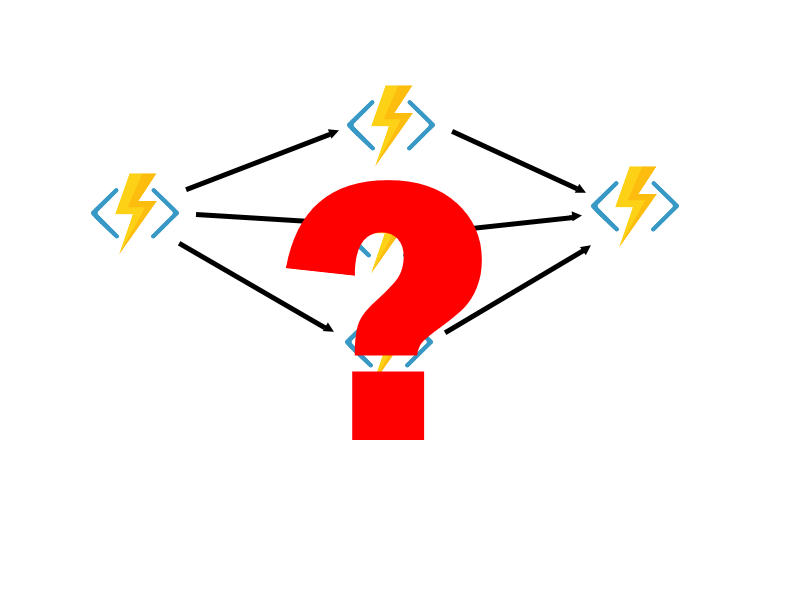
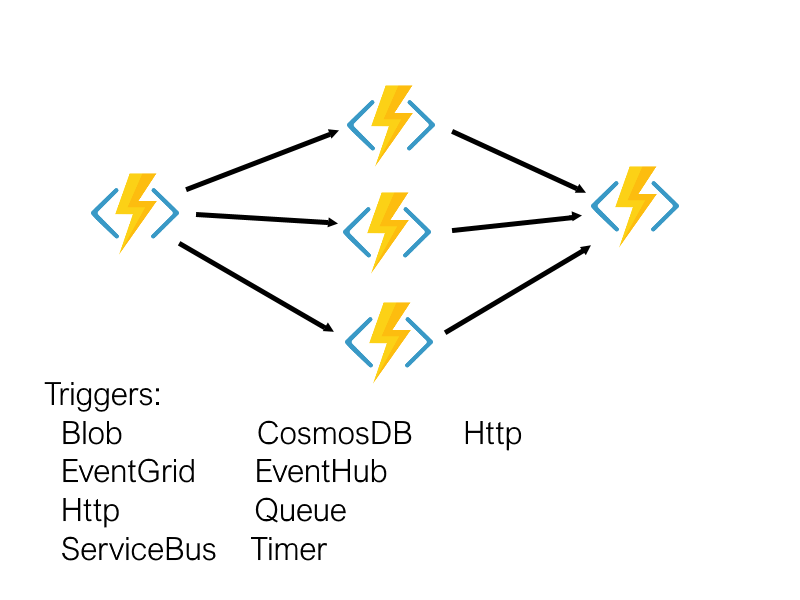
update

diff --git a/PITCHME/assets/md/PITCHME.md b/PITCHME/assets/md/PITCHME.md
@@ -44,7 +44,7 @@ When we talk about Azure functions specifically, we're talking about taking a se
 - a timer or an
 - event from the Microsoft graph
 
-We run a piece of code. We don't just react to event we're also able to influence other parts of our system. We can send a notification, store smth in DB.
+Piece of code gets triggered by the event. We don't just react to event we're also able to influence other parts of our system. We can send a notification, store smth in DB.
 
 However there are still some challanges in architecturing serverless solutions using Azure functions
 
@@ -56,6 +56,11 @@ However there are still some challanges in architecturing serverless solutions u
 <img src="./assets/md/assets/durable_function_problem1.png"  />
 
 Note:
+Suppose we would like to pass results of our function to other functions. But there is no such triggers that would fire another function with our parameters.
+
+What we most likely should do is to use an HTTP trigger or put the results in a queue and the new message in the queue will trigger another function. 
+
+But what if we want 
 
 ---
 <!-- .slide: data-transition="none" -->
@@ -65,6 +70,7 @@ Note:
 <img src="./assets/md/assets/durable_function_problem2.png"  />
 
 Note:
+to accumulate the results from different functions and process them in one function?
 
 ---
 <!-- .slide: data-transition="none" -->
@@ -74,8 +80,38 @@ Note:
 <img src="./assets/md/assets/durable_function_problem3.png"  />
 
 Note:
+Triggers:
+  Blob          CosmosDB      Http
+  EventGrid     EventHub
+  Http          Queue
+  ServiceBus    Timer   
+
+How to achieve it?
+
+It is not trivial to solve it using a set of available triggers and most likely you end up managing a lot of additional storages/queues 
+
+---
+<!-- .slide: data-transition="none" -->
+
+<span class="menu-title" style="display: none">What is still hard?</span>
+
+<img src="./assets/md/assets/durable_function_problem4.png" />
+
+Note:
+How to achieve it?
+
+It is not trivial to solve it using a set of available triggers and most likely you end up managing a lot of additional storages/queues 
 
 
+---
+<span class="menu-title" style="display: none">Overhead</span>
+
+<img src="./assets/md/assets/write_code.gif"  />
+
+Note:
+and writing some boilerplate code.
+
+Likely, we can easily solve it using
 
 ---
 <span class="menu-title" style="display: none">Durable functions intro</span>
@@ -96,14 +132,25 @@ Workflow is now can be defined in code. No JSON schemas or designers. Easier to 
 
 One of the key features of Durable functions is that they are 100% reliable. The progress is not lost when VM is restarting.
 
-Let's jump into code and see how cool durable functoins are.
-
 ---
-<span class="menu-title" style="display: none">Durable functions intro</span>
+<!-- .slide: data-transition="none" -->
 
-<img src="./assets/md/assets/durable_function.png"  />
+<span class="menu-title" style="display: none">New triggers</span>
+
+<img src="./assets/md/assets/durable_function_solution1.png" />
 
 Note:
+
+---
+<!-- .slide: data-transition="none" -->
+
+<span class="menu-title" style="display: none">New triggers</span>
+
+<img src="./assets/md/assets/durable_function_solution2.png" />
+
+Note:
+
+Let's jump into code and see how cool durable functoins are.
 
 ---
 <span class="menu-title" style="display: none">Coding. Demonstration of simplicity</span>
@@ -143,7 +190,7 @@ What can go wrong?
 ---
 <span class="menu-title" style="display: none">Coding. Violating the constraints</span>
 
-Demo coding II
+## Demo coding II
 
 Note:
 What we will do - is actually build the pyramid. 
@@ -156,7 +203,7 @@ What we will do - is actually build the pyramid.
 
 <span class="menu-title" style="display: none">What?!</span>
 
-### What?!
+### Why?!
 
 <img src="./assets/md/assets/confusion.gif"  width="800" />
 
